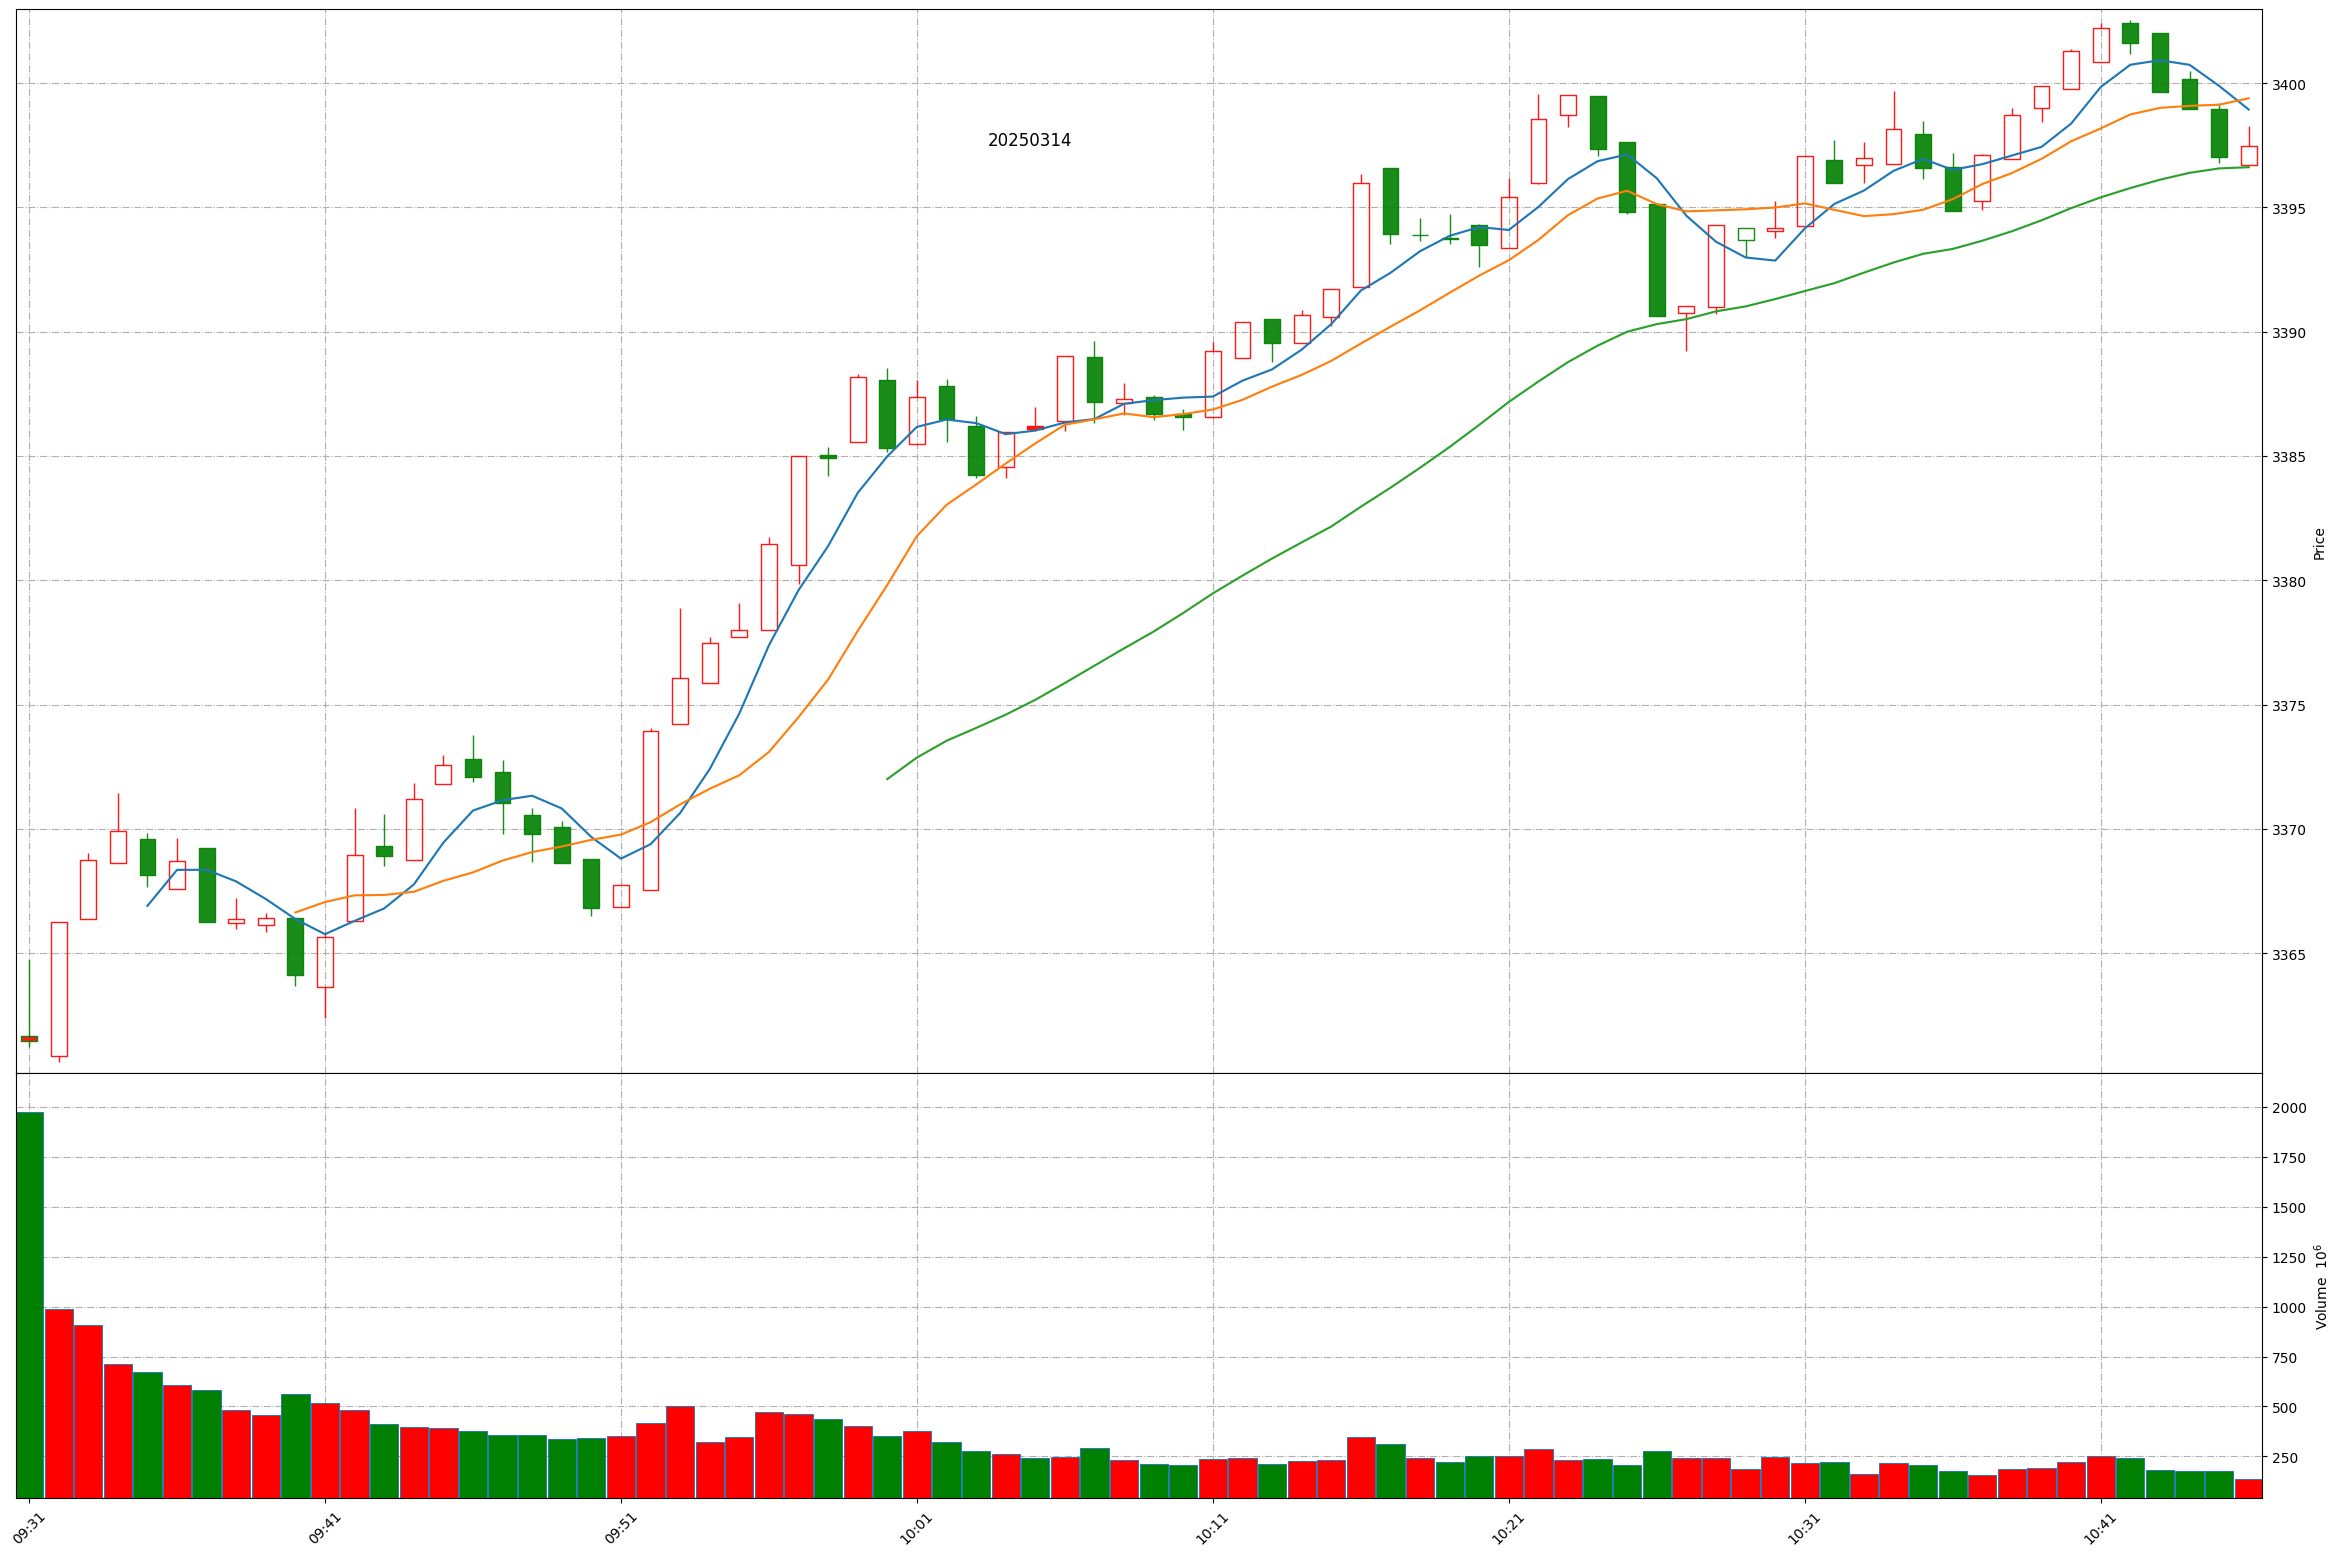
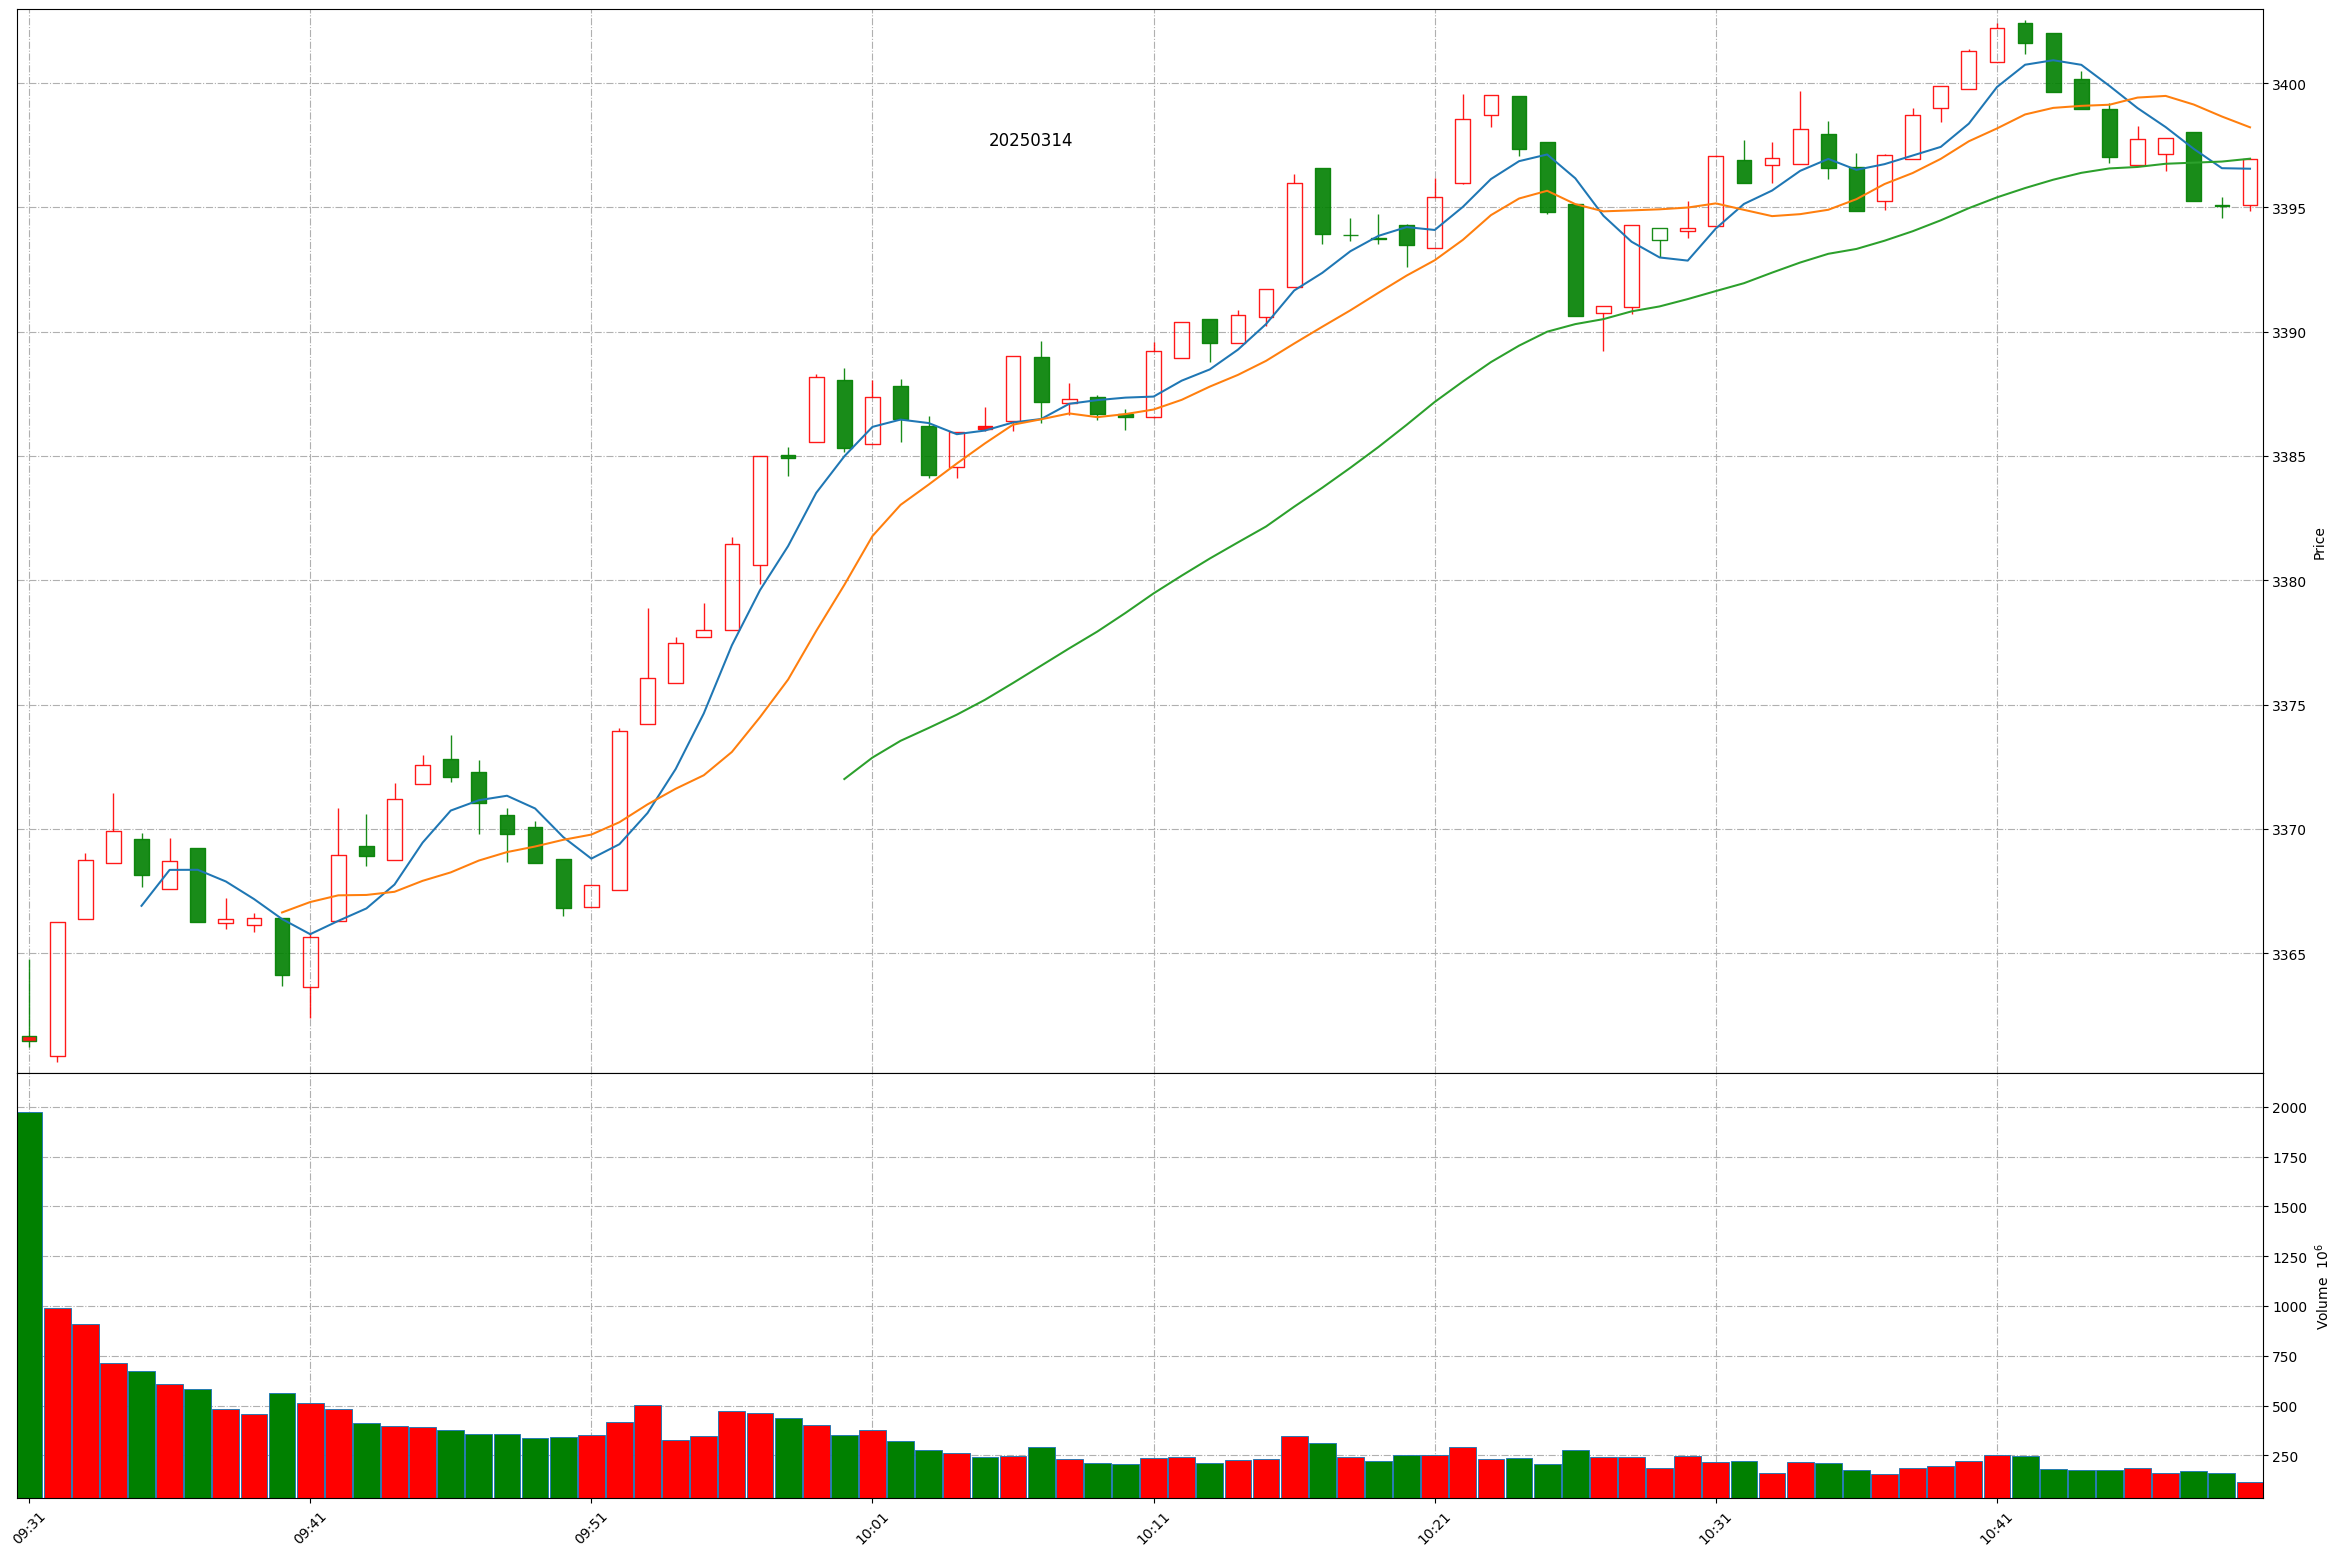
Github action update at 2025-03-14 10:49:57.

diff --git a/README.md b/README.md
@@ -1,11 +1,11 @@
 
 # Daily-A-share-market-quotes 每日 A 股指数（5min 更新）- 20250314
 
-### 上证指数 20250314 10:46
+### 上证指数 20250314 10:49
 ![](./fig/2025/3/20250314-sh000001.png)
 
-### 深证成指 20250314 10:46
+### 深证成指 20250314 10:49
 ![](./fig/2025/3/20250314-sz399001.png)
 
-### 北证50 20250314 10:46
+### 北证50 20250314 10:49
 ![](./fig/2025/3/20250314-bj899050.png)
